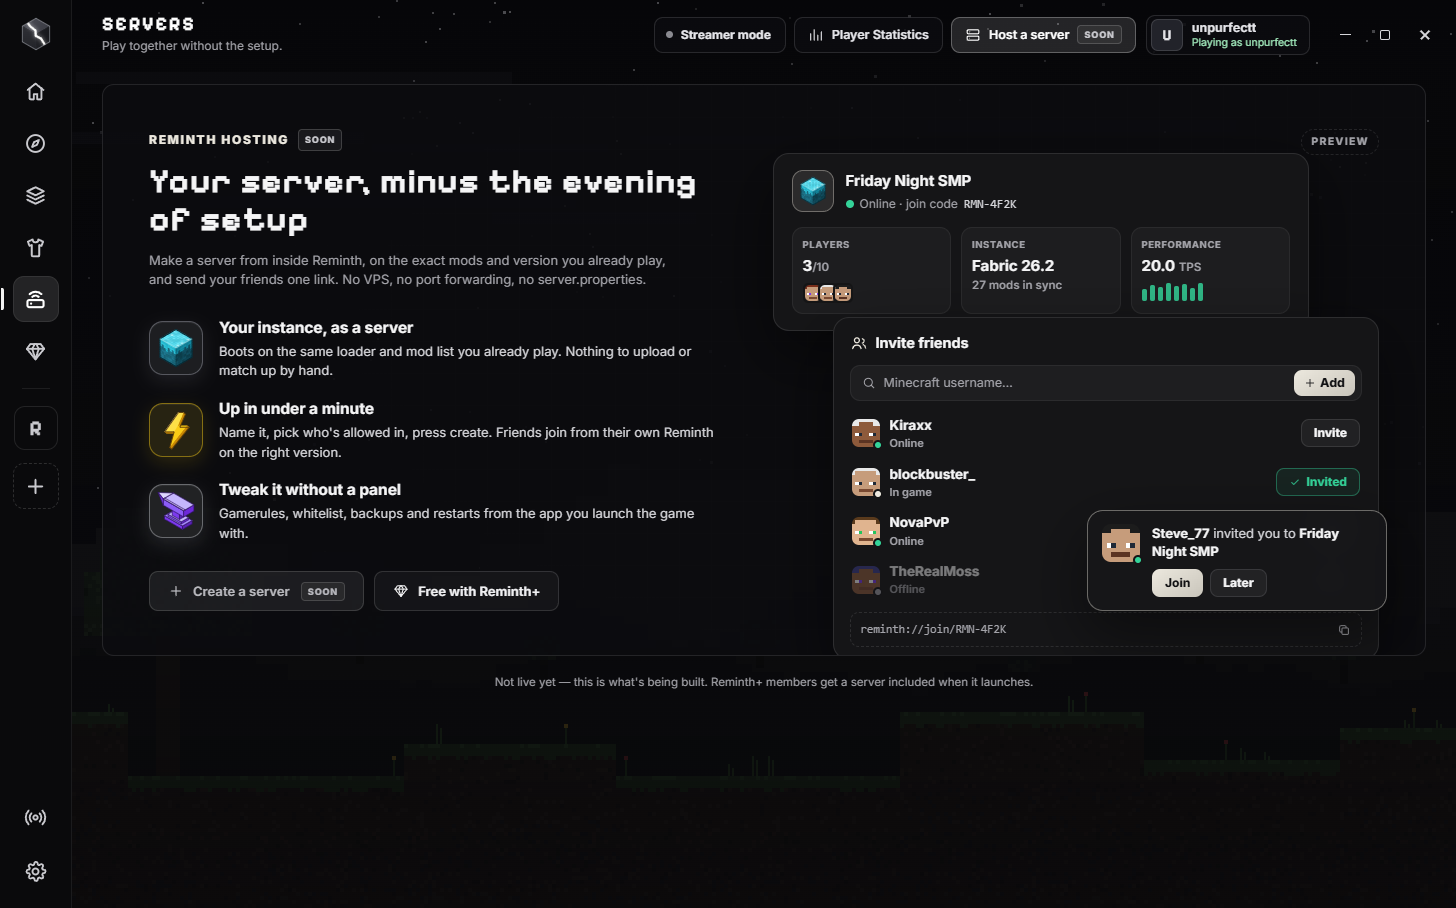
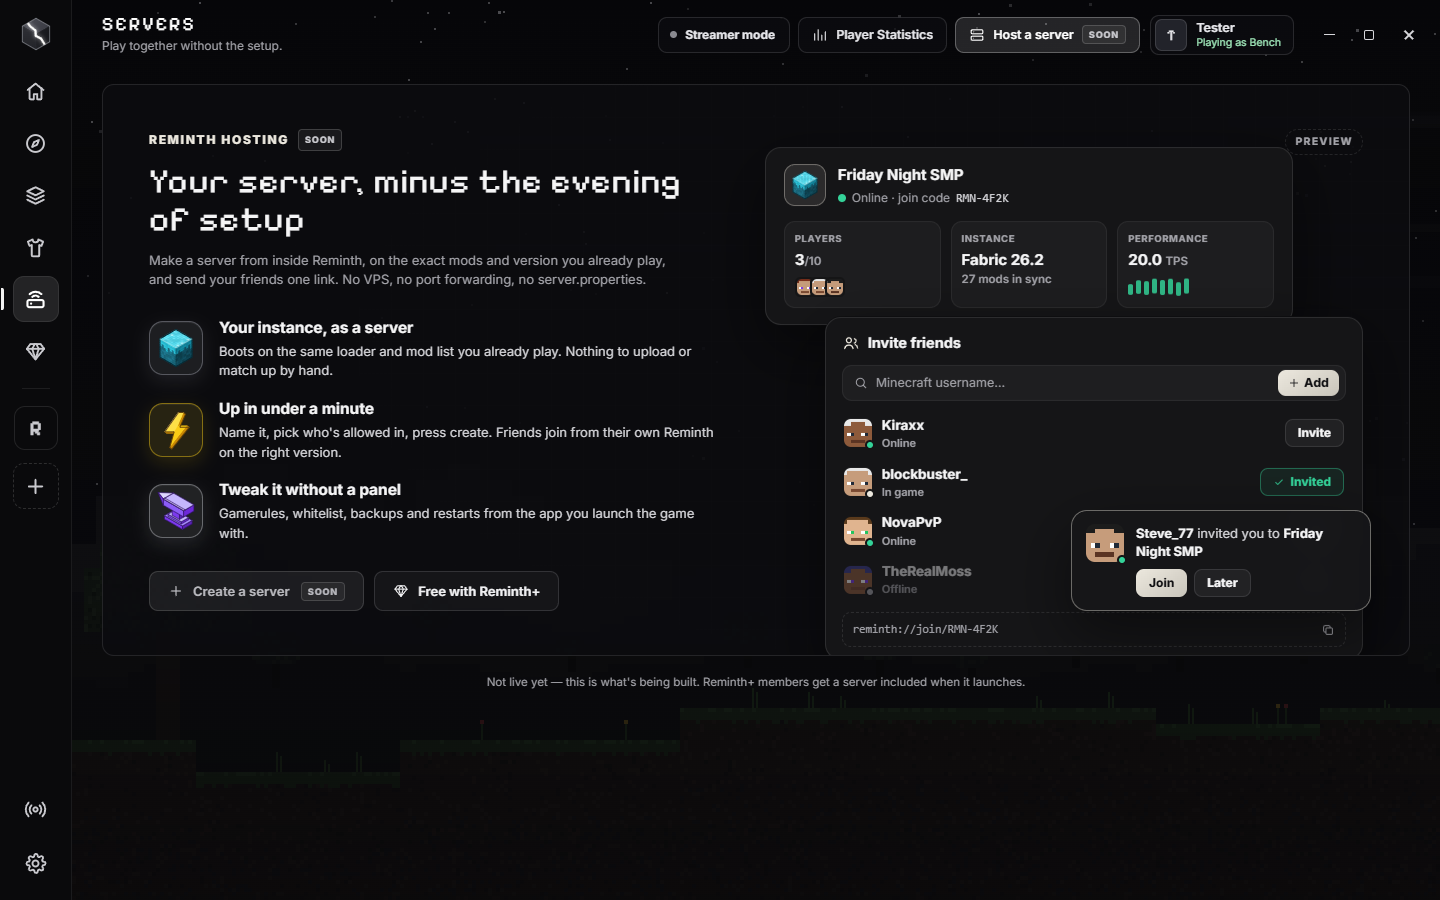
Night look checked for real (PLAY/Stop, Quick join into a test server, picker, themes, sign out, tiers) and the G panel on 8 older versions; screenshots retaken with the pixel C fix

diff --git a/DECISIONS_AND_TEST_PLAN.md b/DECISIONS_AND_TEST_PLAN.md
@@ -4,6 +4,7 @@
 work rewrites it (see `CLAUDE.md`). Desktop window: `git pull`, read this top to bottom, then work
 section 4 in order (it starts with prompt 17, then Audit 16) and report PASS/FAIL per step.
 
+- **15 Oct 2026 (day): every page and button of the Night look checked in a hidden test copy - PLAY, Stop, Quick join (joined a test server), picker, themes, sign out all work; pixel C fix; G panel on 8 older versions OK. Section 0000000000000000000000000000000000000.**
 - **15 Oct 2026 (night): Reminth 1.8.0 = the Night look + the owner's Night home page and Moonrise icon. NOT built, NOT installed, NOT published. Read `design/NIGHT_DESIGN.md`. Section 000000000000000000000000000000000000.**
 - **14 Oct 2026: "Post the channel messages" now posts a NEW #announcements message for each new release (others still edit). Live on the website. Section 00000000000000000000000000000000000.**
 - **10 Oct 2026 (night): Reminth 1.7.2 PUBLISHED - assets checked (latest.yml identical, exe sha512 matches); website and Discord texts say "over 240 features" (owner presses "Post the channel messages" to update #announcements).** It is: the big G panel update (ReminthHUD 1.6.0) + the Discord sidebar card. Section 0000000000000000000000000000000000.**
@@ -21,6 +22,40 @@ section 4 in order (it starts with prompt 17, then Audit 16) and report PASS/FAI
 - **Version:** `package.json` says **1.7.2** (installer `release-1.7.2`) - **published 10 Oct 2026**.
 - Prompts 10-13 were released in 1.4.1; steps below not marked PASS are still open. Release steps: section 4, R2 first.
 - Rules: `CLAUDE_CODE_HANDOFF_10.md` sections 0-1.
+
+---
+
+## 0000000000000000000000000000000000000. Night look checked for real + G panel on 8 older versions (15 Oct 2026) - desktop window (code chat)
+
+**Owner's ask (14 Oct, then asleep):** after the design window applies the new Home and icon, make every button work
+and test it all again; "dont ask me questions".
+
+**Fixed:** pixel headings of the Night look use Pixelify's regular weight (`night-extra.css`, rebuilt
+`styles-night.css`): in bold the C closes, so "INSTANCE" read "INSTANOE", "Create" "Oreate", "Bench" "Benoh". Home's
+big REMINTH stays bold. `design/screens/` retaken with the fix. `test/discord-texts.test.js` allows the next version
+in package.json (1.8.0) while #announcements still announces 1.7.2.
+
+**Tested for real** (hidden test copy of the launcher: own data in a fake home, fake offline player "Bench", never the
+owner's data or account):
+- Every page opens; a check of every visible button for a click handler found none missing (data-page buttons and the
+  Discover pager's current page are handled by shared code).
+- PLAY: downloaded Java 25, the game, libraries and assets with the progress showing under PLAY, the game started,
+  PLAY said "Playing", Stop appeared; Stop closed the game in ~5 s, PLAY came back, "Last played" updated.
+- PLAY picker menu (every instance, Open, New instance), What's new pop-up (7 items), New instance dialog, Sign out
+  (the sign-in card on the night sky).
+- Night / Blue / Orange switch both ways and are saved (theme + accent + stylesheet).
+- PvP tiers card reached the real tier sites ("No tiers yet" for the fake player).
+- Quick join: two saved servers became tiles DN and TH; clicking TH started the game with
+  `--quickPlayMultiplayer 127.0.0.1:25599` and the player joined a local 26.2 test server ("Bench joined the game").
+  Note: on a brand-new game folder Minecraft first shows its own Narrator/Accessibility welcome screen and the join
+  waits behind it (Mojang's screen, shown once; not changed).
+- ReminthHUD 1.6.0 in a world on 1.20.1, 1.21.1, 1.21.4, 1.21.5, 1.21.8, 1.21.10, 26.1.2 and 26.2 (hidden games, 24
+  features on, HUD and G panel each): drawn, no errors, no crashes.
+
+**Not tested:** the installed 1.8.0 (no installer built), the window/taskbar icon on Windows, the one-time move to
+Night on real settings, the tiers card with a real account that has tiers.
+
+**`npm test`: 692 pass, 0 fail.**
 
 ---
 

diff --git a/design/NIGHT_DESIGN.md b/design/NIGHT_DESIGN.md
@@ -81,9 +81,12 @@ v0idd were mock-ups, nothing fake is shown). Bottom: "Reminth <version> • What
   sign-in (both steps), Home, Discover, Library, Skins, Servers, Reminth+, Settings, Statistics, Instance, Streamer,
   the new-instance dialog, the PLAY picker menu, What's new, the Orange look with the new Home. No script errors
   on any page. `npm test` passes.
-- **Not tested yet**: real clicks in the installed app; PLAY/Stop/progress during a real launch; Quick join really
-  joining; the PvP tiers card with the owner's real account and the real tier sites; the window/taskbar icon and the
-  installer icon on Windows; the one-time move to Night on the owner's real settings.
+- **Tested for real on 15 Oct (code window, hidden test copy with a fake offline player)**: PLAY through a real
+  launch (downloads, progress, Playing, Stop), Quick join joining a local test server, the PLAY picker, What's new,
+  New instance, theme switching both ways, sign out, the tiers card reaching the tier sites. Details:
+  DECISIONS_AND_TEST_PLAN.md section 0000000000000000000000000000000000000.
+- **Not tested yet**: the installed 1.8.0; the window/taskbar and installer icon on Windows; the one-time move to
+  Night on the owner's real settings; the tiers card with an account that has tiers.
 
 ## 6. Left to do (not done on purpose)
 
